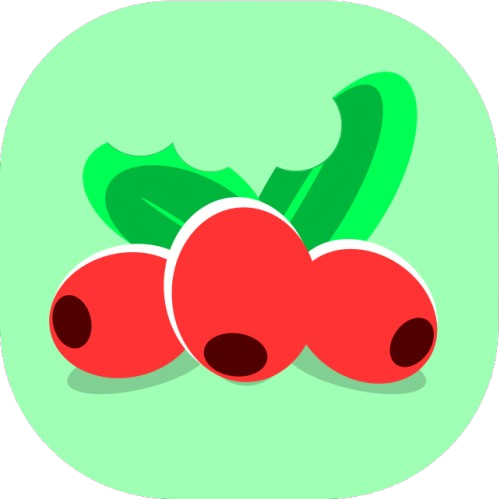
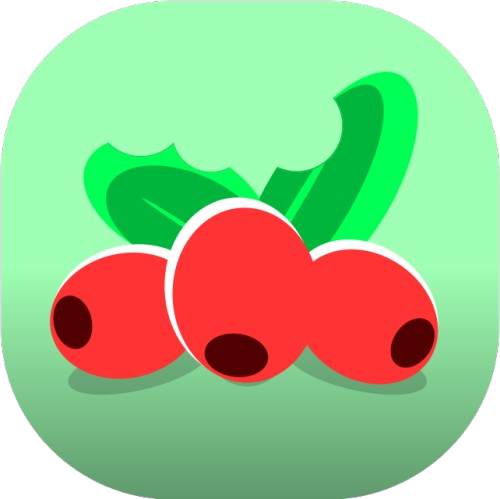
fix: support Windows & minor bugs

diff --git a/main.js b/main.js
@@ -13,6 +13,23 @@ loadDotEnv([
 // Import du menu clic droit
 const setupContextMenu = require("./contextMenu")
 
+// Helper pour résoudre les chemins des ressources (important pour Windows packaging)
+function getResourcePath(filename) {
+  const candidates = [
+    path.join(__dirname, filename),
+    path.join(app.getAppPath(), filename),
+    path.join(process.resourcesPath || '', filename)
+  ];
+  
+  for (const p of candidates) {
+    if (p && fs.existsSync(p)) {
+      return p;
+    }
+  }
+  
+  return path.join(__dirname, filename);
+}
+
 const store = new Store({
   defaults: {
     config: {
@@ -117,7 +134,7 @@ function createWindow() {
     height: 800,
     minWidth: 800,
     minHeight: 600,
-    icon: path.join(__dirname, "assets", "icon.png"),
+    icon: getResourcePath(path.join("assets", "icon.png")),
                                  webPreferences: {
                                    nodeIntegration: false,
                                    contextIsolation: true,
@@ -164,8 +181,8 @@ function createWindow() {
 
   // Démarrage
   const url = config.sourceUrl || "";
-  const validSites = ["franime.fr", "anime-sama.pw", "mangas-origines.fr"];
-  if (url && validSites.some(site => url.includes(site))) {
+  // Vérifier que c'est une URL valide (http/https)
+  if (url && (url.startsWith("http://") || url.startsWith("https://"))) {
     mainWindow.loadURL(url)
   } else {
     loadSetupScreen()
@@ -192,7 +209,7 @@ function createWindow() {
       // A. Animation CSS
       if (config.animationsEnabled !== false) {
         try {
-          const cssPath = path.join(__dirname, 'animations.css');
+          const cssPath = getResourcePath('animations.css');
           if (fs.existsSync(cssPath)) {
             const cssContent = fs.readFileSync(cssPath, 'utf8');
             mainWindow.webContents.insertCSS(cssContent);
@@ -229,7 +246,7 @@ function createWindow() {
 
         const homeBtn = document.createElement('button'); homeBtn.className = 'streamix-btn'; homeBtn.id = 'streamix-home-btn';
         homeBtn.style.cssText = 'position: fixed !important; top: 10px !important; left: 10px !important; background: transparent !important; backdrop-filter: none !important;';
-        homeBtn.innerHTML = '<img src="https://i.imgur.com/IuzfeVB.png" alt="Home">';
+        homeBtn.innerHTML = '<img src="https://i.imgur.com/d4fqsPg.png" alt="Home">';
         homeBtn.onclick = () => window.electronAPI.triggerF1Menu();
         root.appendChild(homeBtn);
 
@@ -386,7 +403,14 @@ function injectF1MenuScript(win) {
   win.webContents.executeJavaScript(menuScript).catch(console.error);
 }
 
-function loadSetupScreen() { mainWindow.loadFile(path.join(__dirname, "setup.html")); }
+function loadSetupScreen() {
+  const setupPath = getResourcePath("setup.html");
+  mainWindow.loadFile(setupPath).catch(err => {
+    console.error("Failed to load setup.html from:", setupPath, err);
+    // Emergency fallback: just display error
+    mainWindow.webContents.loadURL("data:text/html,<h1>Erreur: Impossible de charger le fichier de configuration</h1>").catch(console.error);
+  });
+}
 
 function registerSupabaseHandlers() {
   if (supabaseHandlersRegistered) return;
@@ -517,7 +541,6 @@ app.whenReady().then(() => {
     const siteMap = {
       "franime": "https://franime.fr/",
       "anime-sama": "https://anime-sama.pw/",
-      "mangas-origines": "https://mangas-origines.fr/"
     };
     
     // Si sourceUrl n'est pas déjà fourni (pour les URLs custom), le mapper depuis selectedSite
@@ -672,9 +695,9 @@ app.whenReady().then(() => {
     settingsWindow = new BrowserWindow({
       width: 800, height: 600, resizable: false, parent: mainWindow, modal: false,
       frame: false, show: false, backgroundColor: "#0d1117",
-      webPreferences: { nodeIntegration: false, contextIsolation: true, preload: path.join(__dirname, "preload.js") }
+      webPreferences: { nodeIntegration: false, contextIsolation: true, preload: getResourcePath("preload.js") }
     });
-    settingsWindow.loadFile(path.join(__dirname, "settings.html"));
+    settingsWindow.loadFile(getResourcePath("settings.html"));
     settingsWindow.webContents.on('before-input-event', (event, input) => {
       if (input.key === 'F12' || (input.control && input.shift && input.key === 'i')) {
         settingsWindow.webContents.toggleDevTools();

diff --git a/setup.html b/setup.html
@@ -96,7 +96,7 @@
 <body>
 
   <div class="setup-container">
-    <img src="https://i.imgur.com/IuzfeVB.png" alt="Logo Pluberry" class="logo">
+    <img src="./assets/icon.svg" alt="Logo Pluberry" class="logo">
 
     <h1>Configuration initiale</h1>
     <p>Sélectionnez votre site de streaming préféré pour commencer.</p>
@@ -122,7 +122,7 @@
       <div id="savedUrls" class="saved-urls"></div>
     </div>
 
-    <button id="launchBtn" class="btn-launch">Lancer Streamix</button>
+    <button id="launchBtn" class="btn-launch">Lancer Pluberry</button>
 
   <script>
     const launchBtn = document.getElementById('launchBtn');

diff --git a/settings.html b/settings.html
@@ -260,7 +260,7 @@
       <div id="about" class="section">
         <h2 data-i18n="aboutTitle">À propos</h2>
         <div style="text-align: center; padding: 40px; border: 1px solid var(--border-color); border-radius: 6px; background: var(--bg-surface);">
-          <img src="https://i.imgur.com/IuzfeVB.png" alt="Logo" style="width: 64px; margin-bottom: 16px; opacity: 0.8;">
+          <img src="./assets/icon.svg" alt="Logo" style="width: 64px; margin-bottom: 16px; opacity: 0.8;">
           <div style="font-size: 20px; font-weight: bold; margin-bottom: 8px;">Pluberry</div>
           <div style="color: var(--text-muted); margin-bottom: 16px;">Version 1.2.26 - Beyond Advance</div>
           <p style="color: var(--text-main); font-size: 14px; margin-bottom: 8px; line-height: 1.6; max-width: 400px; margin-left: auto; margin-right: auto;" data-i18n="desc">